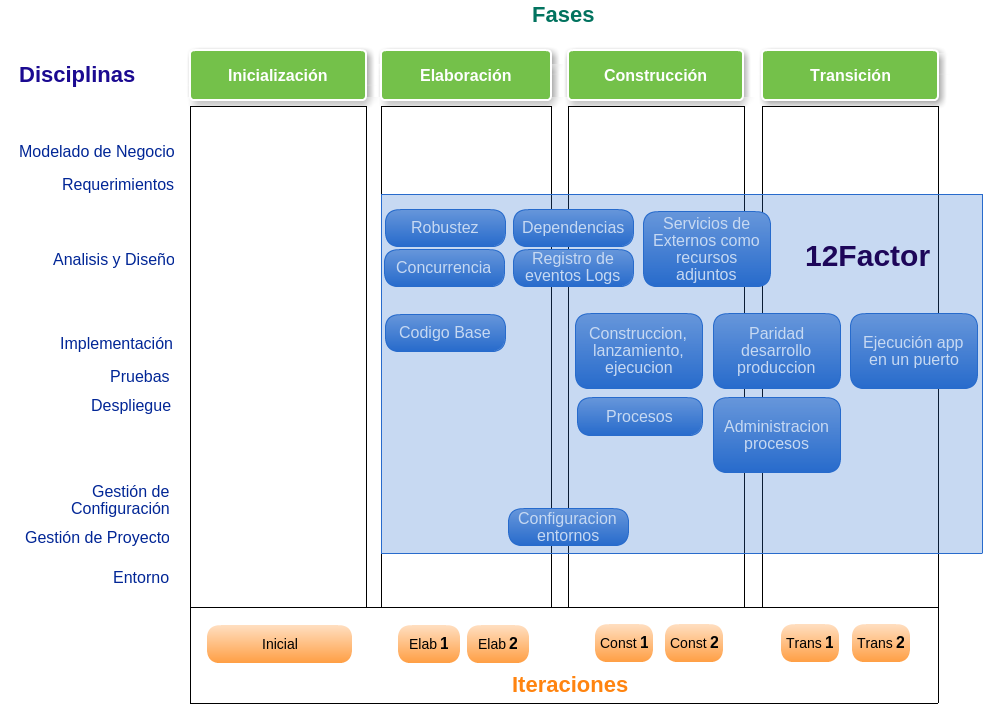
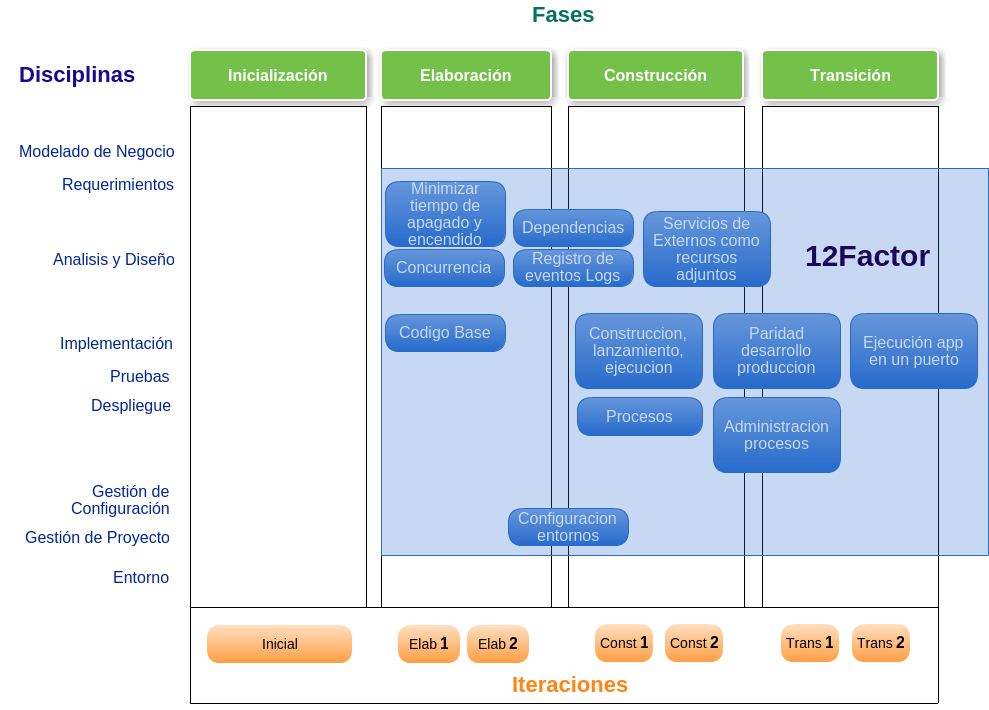
working in the cap4 document

diff --git a/document/cap3.tex b/document/cap3.tex
@@ -56,13 +56,13 @@ Para conocer el negocio y las respectivas actividades que realizan, se entrevist
 	  \hline
 	  \rowcolor{indigo-light} \textbf{N\#} & \centering \textbf{Descripción} & \textbf{Prioridad} \\
 	  \hline
-	  1 & El usuario con perfil de operador podrá registrar nuevos motorizados a la respectiva empresa a la cual corresponde. & Alta \\
+	  4 & El usuario con perfil de operador podrá registrar nuevos motorizados a la respectiva empresa a la cual corresponde. & Alta \\
 	  \hline
-	  2 & El usuario con perfil de operador podrá registrar el cobro por frecuencia diaria realizada a los respectivos mototaxis. & Alta \\
+	  5 & El usuario con perfil de operador podrá registrar el cobro por frecuencia diaria realizada a los respectivos mototaxis. & Alta \\
 	  \hline
-	  3 & El usuario con perfil de operador podrá registrar el cobro por multa de inasistencia a los respectivos motorizados de la empresa. & Alta \\
+	  6 & El usuario con perfil de operador podrá registrar el cobro por multa de inasistencia a los respectivos motorizados de la empresa. & Alta \\
 	  \hline
-	  4 & El usuario con perfil de operador podrá listar los mototaxis correspondientes a la empresa & Baja \\
+	  7 & El usuario con perfil de operador podrá listar los mototaxis correspondientes a la empresa & Baja \\
 	  \hline
 	\end{tabular}
 	\caption{Requerimientos de la Administración de Mototaxis de las respectivas empresas}
@@ -76,11 +76,11 @@ Para conocer el negocio y las respectivas actividades que realizan, se entrevist
 	  \hline
 	  \rowcolor{indigo-light} \textbf{N\#} & \centering \textbf{Descripción} & \textbf{Prioridad} \\
 	  \hline
-	  1 & El usuario con perfil de administrador es el único que puede crear cuentas de operadores para la empresa correspondiente. & Alta\\
+	  8 & El usuario con perfil de administrador es el único que puede crear cuentas de operadores para la empresa correspondiente. & Alta\\
 	  \hline
-	  2 & El usuario con perfil de administrador solo podrá ver la información relacionada a los operadores de la empresa, ingresos diarios y mensuales por cobro por frecuencia y multas por inasistencia de los mototaxis. & Media \\
+	  9 & El usuario con perfil de administrador solo podrá ver la información relacionada a los operadores de la empresa, ingresos diarios y mensuales por cobro por frecuencia y multas por inasistencia de los mototaxis. & Media \\
 	  \hline
-	  3 & La aplicación web deberá proporcionar la opción que los usuarios puedan  cambiar sus datos personales. & Baja \\
+	  10 & La aplicación web deberá proporcionar la opción que los usuarios puedan  cambiar sus datos personales. & Baja \\
 	  \hline
 	\end{tabular}
 	\caption{Requerimientos de los perfiles de usuarios para las empresas}
@@ -94,17 +94,17 @@ Para conocer el negocio y las respectivas actividades que realizan, se entrevist
 	  \hline
 	  \rowcolor{indigo-light} \textbf{N\#} & \centering \textbf{Descripción} & \textbf{Prioridad} \\
 	  \hline
-	  1 & La aplicación web deberá controlar el acceso a la información a través de la autentificación de usuarios y mostrará el menú de operaciones que puede realizar el usuario de acuerdo al perfil de usuario (Administrador u Operador). & Alta\\
+	  11 & La aplicación web deberá controlar el acceso a la información a través de la autentificación de usuarios y mostrará el menú de operaciones que puede realizar el usuario de acuerdo al perfil de usuario (Administrador u Operador). & Alta\\
 	  \hline
-	  2 & La aplicación web deberá controlar las operaciones de acuerdo al tipo de perfil  de usuario que define por cada operación en los recursos de información con los accesos de (lectura, escritura, eliminación y/o actualización). & Alta\\
+	  12 & La aplicación web deberá controlar las operaciones de acuerdo al tipo de perfil  de usuario que define por cada operación en los recursos de información con los accesos de (lectura, escritura, eliminación y/o actualización). & Alta\\
 	  \hline
-	  3 & La aplicación web deberá controlar el acceso a la información a los diferentes usuarios que solo puedan ingresar a la información de la empresa a la cual pertenecen. & Alta \\
+	  13 & La aplicación web deberá controlar el acceso a la información a los diferentes usuarios que solo puedan ingresar a la información de la empresa a la cual pertenecen. & Alta \\
 	  \hline
-	  4 & La aplicación web deberá permitir crear una cuenta empresa en conjunto con la cuenta administrador. & Media \\
+	  14 & La aplicación web deberá permitir crear una cuenta empresa en conjunto con la cuenta administrador. & Media \\
 	  \hline
-	  5 & La aplicación web deberá proporcionar las opciones de iniciar sesión y cerrar session. &  Media\\
+	  15 & La aplicación web deberá proporcionar las opciones de iniciar sesión y cerrar session. &  Media\\
 	  \hline
-	  6 & La aplicación web deberá permitir a los usuarios cambiar contraseña. &  Baja \\
+	  16 & La aplicación web deberá permitir a los usuarios cambiar contraseña. &  Baja \\
 	  \hline
 	\end{tabular}
 	\caption{Requerimientos de Seguridad de la aplicación web}
@@ -127,6 +127,7 @@ Para conocer el negocio y las respectivas actividades que realizan, se entrevist
   \caption{Acciones que puede realizar un Operador [Elaboracion propia ]}  
 \end{figure}
 \end{itemize}
+
 \section{Requerimientos no funcionales}
 \noindent Según la definición de [Swebok, 2014], Los requerimientos no funcionales algunas veces son conocidos como las restricciones del proyecto o requerimientos de calidad. Los requerimientos no funcionales pueden ser clasificados en requerimientos de rendimiento, mantenimiento, seguridad, fiabilidad, interoperabilidad y muchos otros.
 

diff --git a/document/cap4.tex b/document/cap4.tex
@@ -1,2 +1,93 @@
+
 \chapter{Elaboración}
-\noindent En el presente capítulo se pretende describir....
+\noindent En el presente capítulo se reforzará y se analizará la solución que se planteó en el capítulo anterior teniendo como resultado los siguientes elementos:
+
+\begin{itemize}
+\item Diseño de requerimientos
+\item Diseño de la base de datos
+\item Especificación Plan de pruebas
+\item Entorno de Desarrollo
+\item Proceso de Integración Continua
+\item Plan de Iteraciones 
+\end{itemize}
+
+\noindent El objetivo de la fase de \textbf{Elaboración} en AUP - Proceso Unificado Ágil, es que el equipo de desarrollo profundice en la comprensión de los requisito del sistema y en validar la arquitectura propuesta en la fase de \textbf{Iniciación}.
+
+\noindent Adicionalmente en este capítulo se ha considerado los siguientes elementos de la metodología 12 factor:
+\begin{itemize}
+\item Minimizar tiempo de encendido y apagado aplicación
+\item Concurrencia
+\item Código Base
+\item Dependencias
+\item Configuraciones
+\end{itemize}
+
+\section{Diseño de requerimientos}
+\noindent A continuación de definen los diseños por cada módulo definido en la arquitectura presentada en el capítulo anterior. Para una mejor compresión se define por cada módulo: los diagramas de secuencia, diagramas de clases, diseño de interfaz gráfica y especificación de criterios de aceptación para las pruebas.
+
+\subsection{Módulo de Pedidos}
+\noindent El módulo de pedidos tiene como objetivo resolver los siguientes requerimientos:
+\begin{itemize}
+\item Registro de los pedidos realizados por los clientes (Req. \#1).
+\item Asignación de pedidos a los motorizados de la empresa (Req. \#2).
+\item Listar los pedidos realizados en el dia (Req \#3).
+\end{itemize}
+
+\begin{figure}[H]
+  \centering
+  \includegraphics[width=11cm, height=8cm]{chapter4-register-customer-request-sequence-diagram.png}
+  \caption{Registro de pedidos [Elaboración propia]}  
+\end{figure}
+
+\begin{figure}[H]
+  \centering
+  \includegraphics[width=12cm, height=8cm]{chapter4-assign-customer-request-sequence-diagram.png}
+  \caption{Asignación de pedidos [Elaboración propia]}  
+\end{figure}
+
+\begin{figure}[H]
+  \centering
+  \includegraphics[width=11cm, height=8cm]{chapter4-get-list-customer-request-sequence-diagram.png}
+  \caption{Obtener lista de pedidos [Elaboración propia]}  
+\end{figure}
+
+
+\begin{figure}[H]
+  \centering
+  \includegraphics[width=14cm, height=7cm]{chapter4-customer-request-module-class-diagram.png}
+  \caption{Diagrama de clases módulo de pedidos [Elaboración propia]}  
+\end{figure}
+
+\subsection{Módulo de Transacciones}
+El módulo de transacciones tiene como objetivo resolver los siguientes requerimientos:
+\begin{itemize}
+\item Registrar el cobro por frecuencia diaria a los respectivos motorizados de la empresa (Req. \#5).
+\item Registrar el cobro por multa de inasistencia de los respectivos motorizados de la empresa (Req. \#6).
+\end{itemize}
+\subsection{Módulo de Usuarios}
+El módulo de Usuarios tiene como objetivo resolver los siguientes requerimientos:
+\begin{itemize}
+\item Registro de motorizados de la respectiva empresa (Req. \#4).
+\item Listar los motorizados de la respectiva empresa (Req. \#7).
+\item Registro de cuentas de operadores de la respectiva empresa (Req. \#8).
+\item Ver ingresos diarios y mensuales de los ingresos por cobro de frecuencia y multas (Req. \#9).
+\item Actualizar datos de usuarios (Req. \#10).
+\end{itemize}
+\subsection{Módulo de Seguridad}
+\noindent El módulo de Seguridad tiene como objetivo resolver los siguientes requerimientos:
+\begin{itemize}
+\item Autenticación de usuarios y mostrar la información de acuerdo al perfil usuario (Req. \#11).
+\item Control permisos de accesos a los recursos de información de acuerdo al perfil de usuario (Req. \#12).
+\item Control de acceso a los usuarios que solo puedan acceder a la información de la empresa a la cual pertenecen (Req. \#13).
+\item Permitir crear solo una cuenta administrador por empresa (Req. \#14).
+\item Permitir cambiar contraseña (Req. \#15).
+\end{itemize}
+\section{Diseño de la base de datos}
+
+\section{Entorno de Desarrollo}
+
+\section{Proceso de Integración Continua}
+
+\section{Plan de Iteraciones}
+
+ 

diff --git a/document/document.tex b/document/document.tex
@@ -60,8 +60,8 @@
 
 %\include{cap1} % este capítulo se hará en base al perfil,
 %\include{cap2} % lo que se llama el marco teórico, es un sistema de conceptos
-\include{cap3}
-%\include{cap4}
+%\include{cap3}
+\include{cap4}
 %\include{cap5}
 %\include{Pruebas y/o experimentación}
 %\include{Conclusiones}
